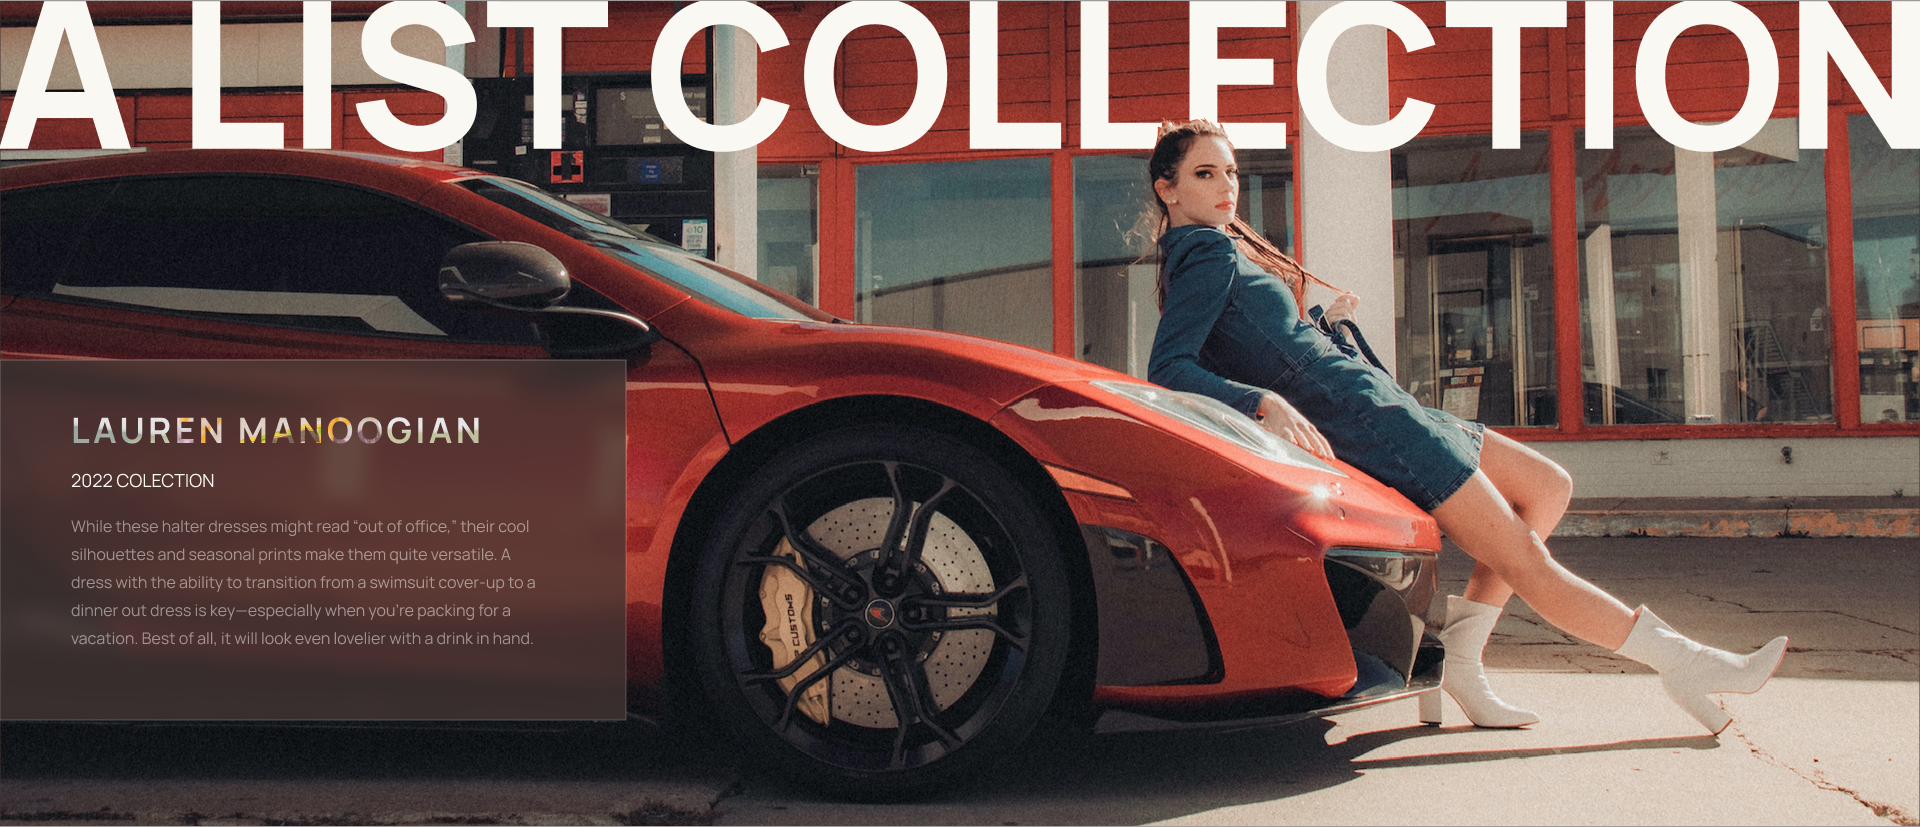
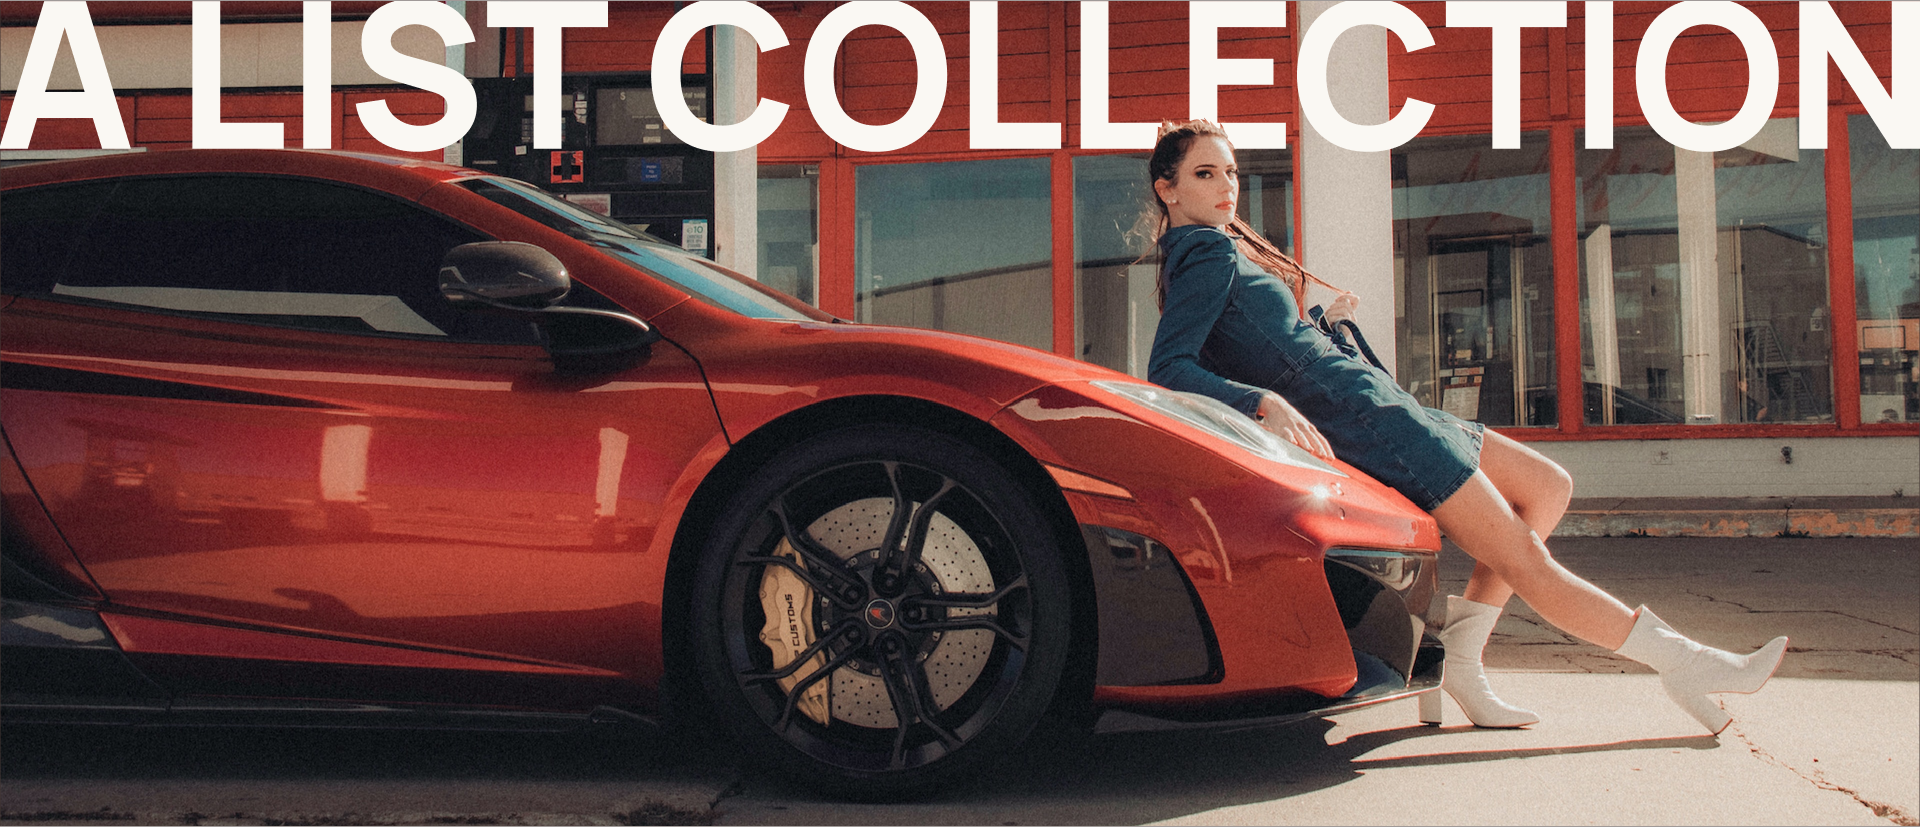
collection update

Changed region(s): [[0.0, 0.4232, 0.3438, 0.8767]]

diff --git a/resources/css/index.css b/resources/css/index.css
@@ -496,3 +496,16 @@ nav.navigation-menu {
         height: 140vw;
     }
 }
+
+/* Collections */
+
+#collections {
+    position: relative;
+    width: 100%;
+    padding-top: 42.96875%;
+    background: url(/resources/img/img-items/collection-cover.png);
+    background-position: center;
+    background-repeat: no-repeat;
+    background-size: cover;
+}
+

diff --git a/index.html b/index.html
@@ -187,10 +187,8 @@
       </div>
 
       <div id="collections">
-        <div class="collection-cover">
-          <div class="collection-description">
-            
-          </div>
+        <div class="collection-description">
+          
         </div>
       </div>
     </main>
